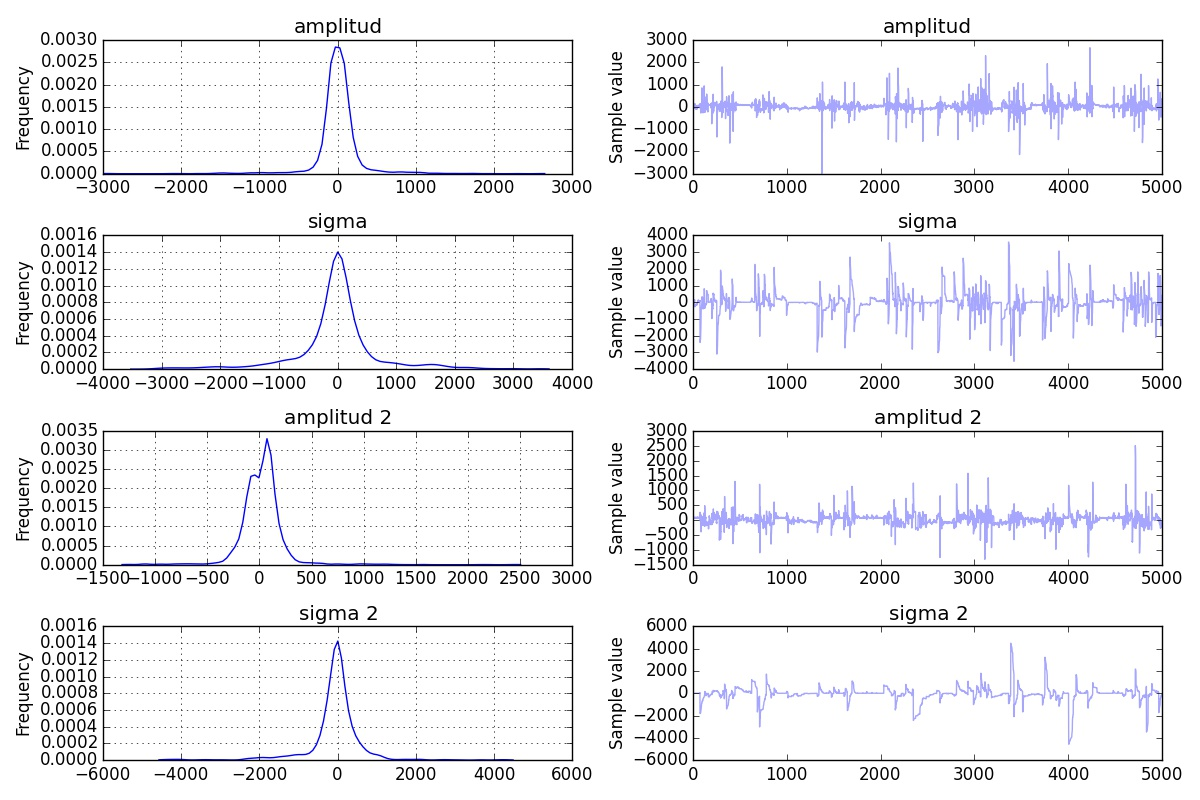
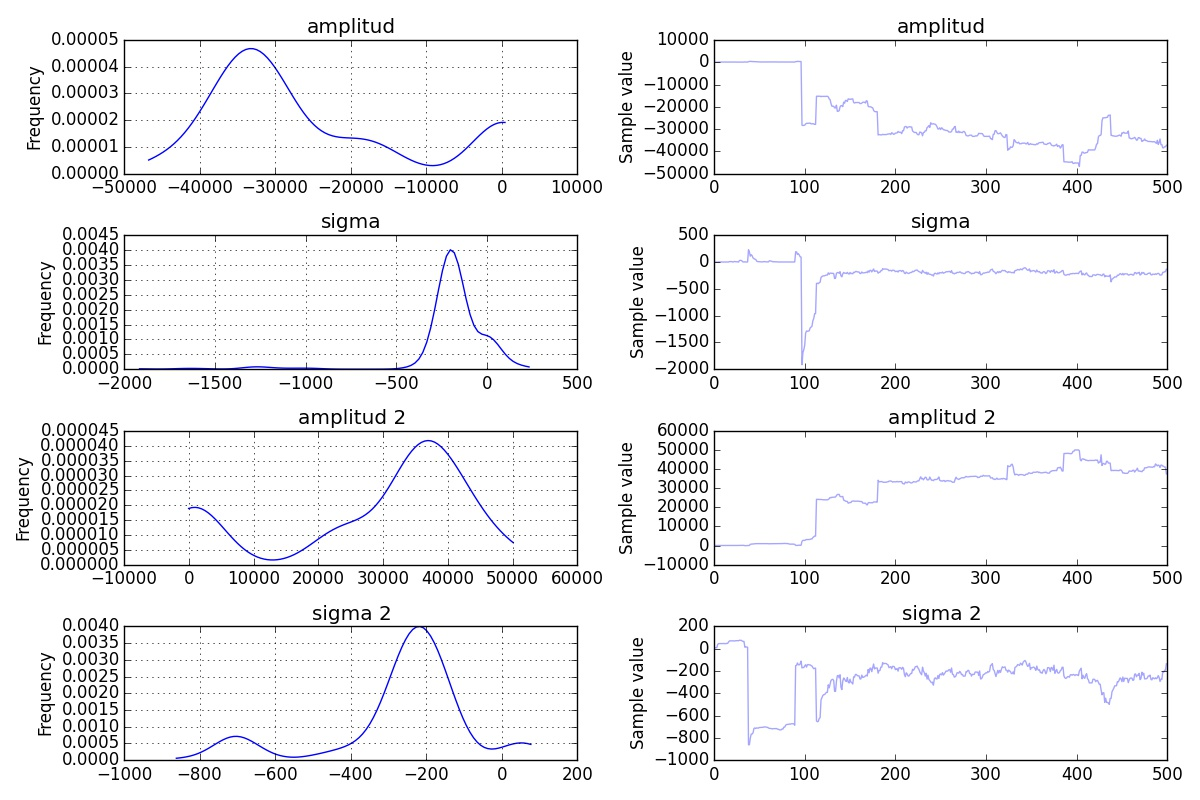
intento de calculo de evidencia

diff --git a/2_gauss.py b/2_gauss.py
@@ -16,6 +16,28 @@ from scipy.stats import multivariate_normal
 
 ESCALA = 1e18
 
+
+def prior(beta, params):
+    beta0, beta1, beta2, beta3 = beta
+    mu0, sigma0, mu1, sigma1, mu2, sigma2, mu3, sigma3 = params
+    S = -1. / 2 * ((beta0 - mu0)**2 / sigma0**2 + (beta1 - mu1)**2 / sigma1**2 + (beta2 - mu2)**2 / sigma2**2 + (beta3 - mu3)**2 / sigma3**2)
+    P = np.exp(S) / ((2 * np.pi)**2 * sigma0 * sigma1 * sigma2 * sigma3)
+    return P
+
+
+def likelihood(beta, data, sigma_datos):
+    beta0, beta1, beta2, beta3 = beta
+    x, y = data
+    try:
+        N = len(x)
+    except:
+        N = 1
+    mu = 6563
+    S = np.sum((y - 1e-16 * ESCALA - beta0 * norm(loc=mu, scale=beta1).pdf(x) - beta2 * norm(loc=mu, scale=beta3).pdf(x))**2)
+    L = (2 * np.pi * sigma_datos**2)**(-N / 2.) * np.exp(-S / 2 / sigma_datos**2)
+    return L
+
+
 def importar_datos(txt):
     ''' función que retorna arreglos por cada columna del archivo de datos'''
     data = np.loadtxt(txt)
@@ -45,9 +67,9 @@ basic_model = Model()
 with basic_model:
 
     # Priors for unknown model parameters
-    A = Normal('amplitud', mu=1e-17 * ESCALA, sd=100)
+    A = Normal('amplitud', mu=1e-17 * ESCALA, sd=1e16 * ESCALA)
     sigma = Normal('sigma', mu=8, sd=100)
-    A2 = Normal('amplitud 2', mu=1e-17 * ESCALA, sd=100)
+    A2 = Normal('amplitud 2', mu=1e-17 * ESCALA, sd=1e16 * ESCALA)
     sigma2 = Normal('sigma 2', mu=4, sd=100)
 
     mu = 6563
@@ -72,7 +94,24 @@ plt.legend(loc=4)
 plt.savefig("fit 2 gaussianas.jpg")
 
 with basic_model:
-    trace = sample(5000, start=map_estimate)
+    trace = sample(500, start=map_estimate)
 traceplot(trace)
 plt.savefig("graf2.jpg")
 plt.show()
+
+# Usaremos una gaussiana 2D
+# los parametros adecuados los podemos estimar de la muestra obtenida usando pymc3 o Metropolis.
+mu = [map_estimate["amplitud"], map_estimate["sigma"], map_estimate["amplitud 2"], map_estimate["sigma 2"]]
+algo = 1e-3
+sigma = [[algo,0, 0, 0], [0, algo, 0, 0], [0, 0, algo, 0], [0 ,0, 0, algo]] # Ver que pasa con covarianza = -0.5
+nd_normal = multivariate_normal(mu, sigma)
+
+prior_params = [map_estimate["amplitud"], 1e16 * ESCALA, map_estimate["sigma"], 100, map_estimate["amplitud 2"], 1e16 * ESCALA, map_estimate["sigma 2"], 100]
+N_sample = 500
+random_points = nd_normal.rvs(N_sample)
+suma = 0
+for p in random_points:
+    posterior = likelihood(p, [wl, fnu], sigma_datos) * prior(p, prior_params)
+    suma += posterior / nd_normal.pdf(p)
+print ("")
+print suma / N_sample

diff --git a/gauss_simple.py b/gauss_simple.py
@@ -152,3 +152,19 @@ A, sigma = calcular_esperanza_param(beta0_grid[:, 0], marginal_b0, beta1_grid[0]
 print ("valores de esperanza para, amplitud = {}, varianza= {} ".format(A, sigma))
 graficar_fit(wl, fnu, A, sigma, gauss)
 plt.show()
+
+# calculo de evidencia
+
+n0, n1 = beta0_grid.shape
+prior_m1 = np.zeros((n0, n1))
+likelihood_m1 = np.zeros((n0, n1))
+
+for i in range(n0):
+    for j in range(n1):
+        prior_m1[i, j] = prior([beta0_grid[i, j], beta1_grid[i, j]], [1, 100, 5, 100])
+        likelihood_m1[i, j] = likelihood([beta0_grid[i, j], beta1_grid[i, j]], [wl, fnu], gauss, sigma_datos)
+
+dx = 1.5 * 1e-16 * ESCALA / 100
+dy = 0.6 / 100
+P_E_M1 = np.sum(prior_m1 * likelihood_m1) * dx * dy
+print 'P(D|M1) = ', P_E_M1
